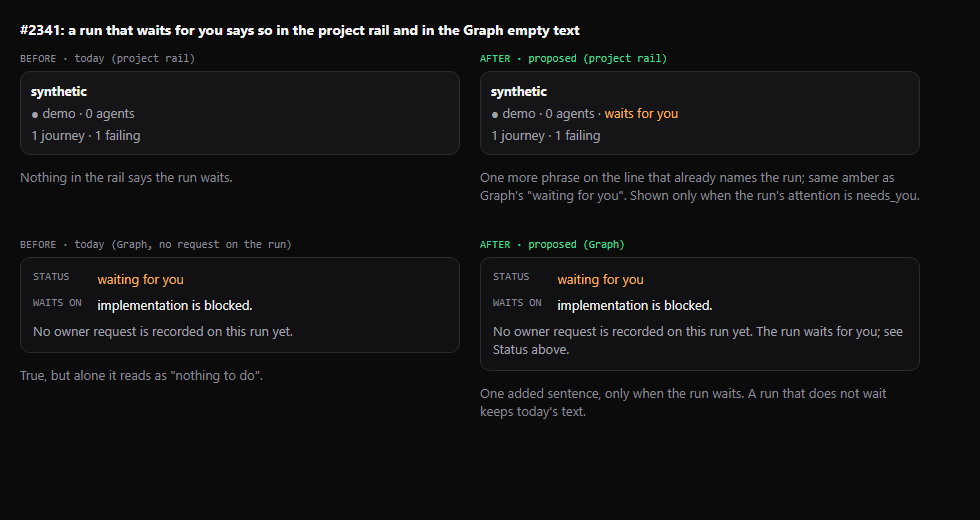
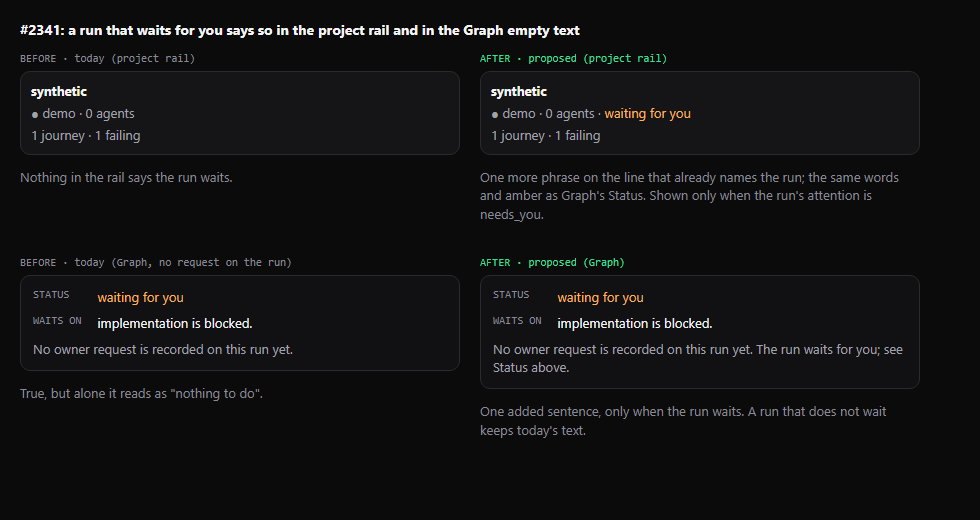
docs(design): rail wording follows Graph's Status (waiting for you)
Refs #2341

diff --git a/docs/design/studio/2341/mock.html b/docs/design/studio/2341/mock.html
@@ -5,8 +5,8 @@
   <div class="project"><strong>synthetic</strong><span class="muted">● demo · 0 agents</span><span class="muted">1 journey · 1 failing</span></div>
   <p class="faint">Nothing in the rail says the run waits.</p></div>
  <div class="after"><span class="tag">AFTER · proposed (project rail)</span>
-  <div class="project"><strong>synthetic</strong><span class="muted">● demo · 0 agents · <span class="wait">waits for you</span></span><span class="muted">1 journey · 1 failing</span></div>
-  <p class="faint">One more phrase on the line that already names the run; same amber as Graph's "waiting for you". Shown only when the run's attention is needs_you.</p></div>
+  <div class="project"><strong>synthetic</strong><span class="muted">● demo · 0 agents · <span class="wait">waiting for you</span></span><span class="muted">1 journey · 1 failing</span></div>
+  <p class="faint">One more phrase on the line that already names the run; the same words and amber as Graph's Status. Shown only when the run's attention is needs_you.</p></div>
 </div>
 <div class="pair" style="margin-top:20px">
  <div><span class="tag">BEFORE · today (Graph, no request on the run)</span>
